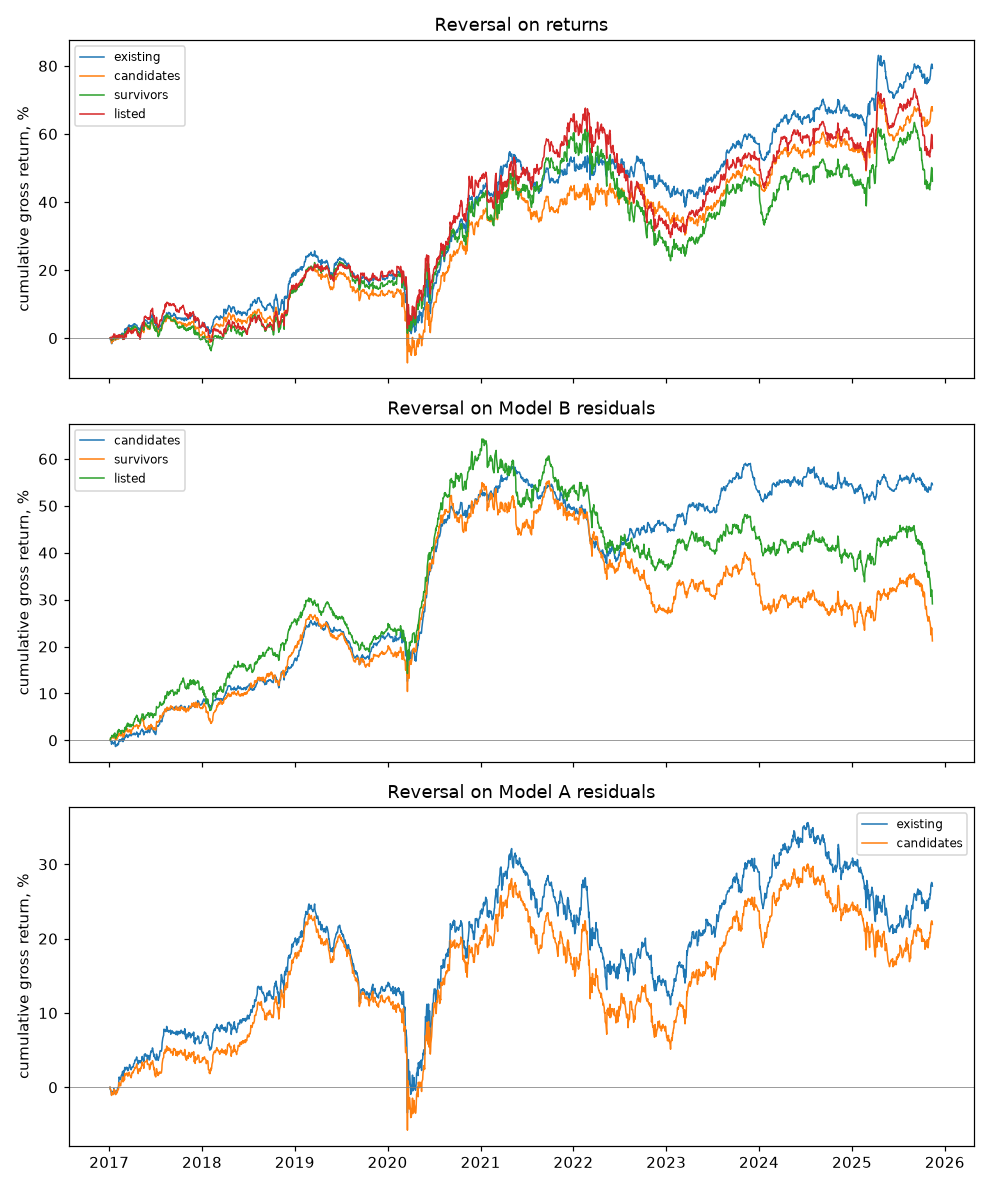
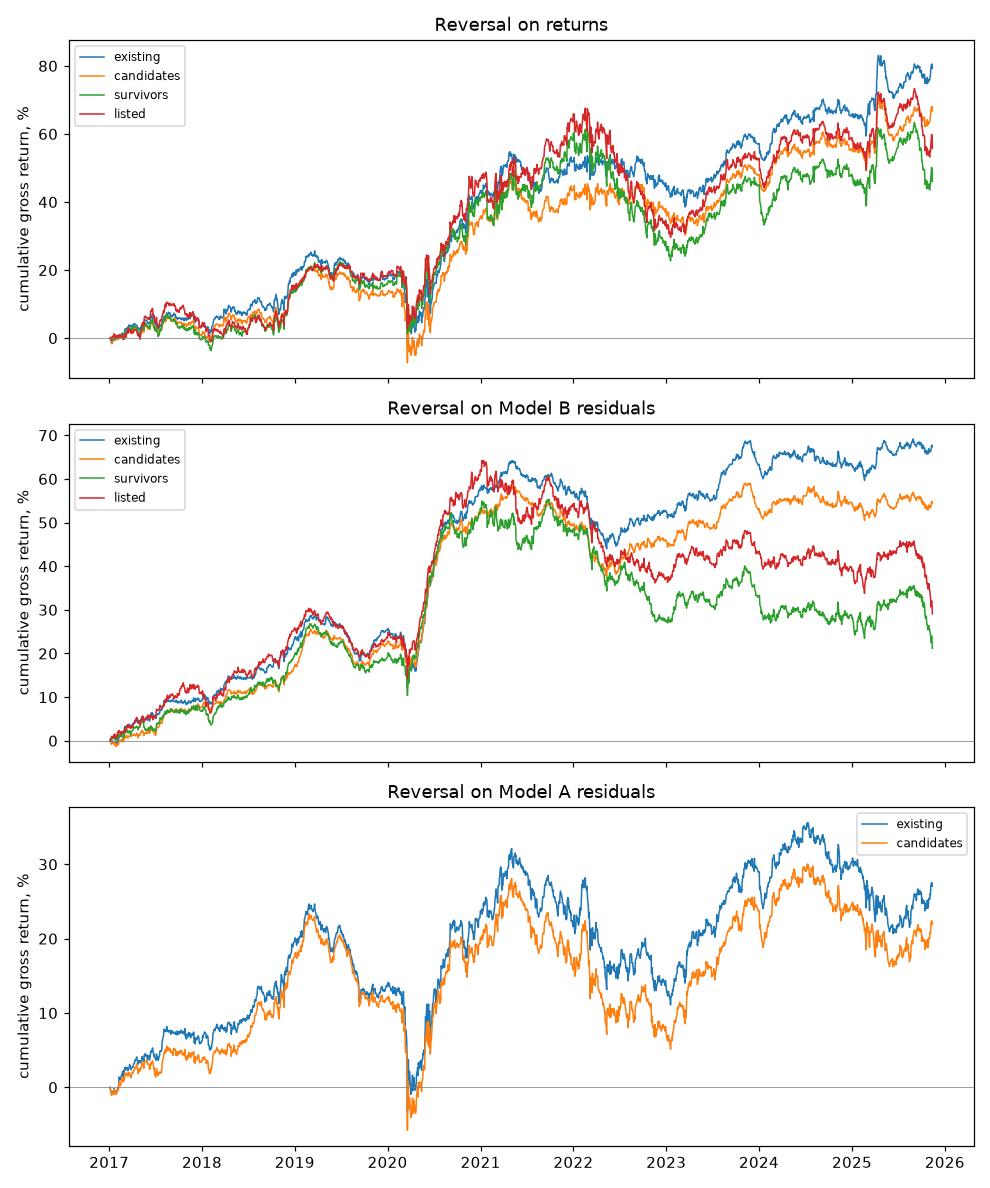
docs(phase-07): log the eighth trial and explain the Model B result
The logged run of statarb.backtest.survivorship at c73fd78, from a
clean tree, with the path the review stated before it ran: reversal
on Model B's residuals on the existing universe, held for one day.

It explains what the review left open. With phase 4's fit and
Alpaca's prices the path's gross Sharpe is above the 0.955 found on
the second source, so the one-day holding period accounts for the gap
with phase 4's two-day figure, and the fit and source together cost
about 0.2. It earns nothing net, like every other path here.

The run appended 40 entries. The 35 earlier ones repeat with
identical metrics.

Results: adds one trial to reports/phase-07/experiments.jsonl, 200 in
the repository. Model B's residuals on the existing universe over
development: gross Sharpe 1.154, gross return 7.62% a year, net
Sharpe -2.160 at 5 bps. Candidates less existing on Model B's
residuals: -0.198 of gross Sharpe. The survivorship report gains the
path's rows; no earlier number moves.

Changed region(s): [[0.4242, 0.3737, 0.9394, 0.5295], [0.1212, 0.4983, 0.4242, 0.6229], [0.0303, 0.3426, 0.1818, 0.5918]]

diff --git a/reports/phase-07/survivorship.md b/reports/phase-07/survivorship.md
@@ -6,13 +6,13 @@ Statistics only: no price, volume or return of any symbol on any date.
 
 - The phase 2 headline's settings: lookback 1, holding 1, decile 0.1, fill open_t1, first signal 2017-01-03, through 2025-11-13, the development end
 - Alpaca snapshot 2026-11-16; MarketParquet snapshot 2026-11-20
-- `existing`: today's S&P 500 on Alpaca's total returns, the logged universe, rerun over development and not logged again
+- `existing`: today's S&P 500 on Alpaca's total returns, the logged universe, rerun over development. Its paths on returns and on Model A's residuals are phase 2's and are not logged again. Its path on Model B's residuals, with phase 4's fit on every candidate, is an eighth trial added after the phase's review and logged.
 - `candidates`: today's S&P 500, ranked and priced on MarketParquet
 - `survivors`: every listed stock symbol without the delisted suffix, built with look-ahead on purpose
 - `listed`: every stock symbol of the day
 - On MarketParquet returns are price returns: no dividends, and a spin-off only where the archive folded it in (decision record 0009). The engine closes a held name after 5 sessions without a bar; `closed` counts those.
 - The raw form is scored from a symbol's first Model B residual on, as phase 2 scores it from its first Model A residual.
-- Trials: the 7 paths on MarketParquet are new; the repository's logs hold 199 with them.
+- Trials: 8 paths here are new, seven on MarketParquet and one on the existing universe; the repository's logs hold 200 with them.
 
 - `candidates`: 447 symbols ever members, 116 rankings
 - `survivors`: 685 symbols ever members, 116 rankings
@@ -26,6 +26,7 @@ Returns are annualised, per dollar of gross exposure.
 |---|---|---|---|---|---|---|---|---|---|---|---|---|
 | existing | Model A | 2229 | 0.339 | 0.312 | 3.06% | 2.81% | 12.09% | -9.03% | 1.706 | 0.65 | 2 | 0 |
 | existing | raw | 2229 | 0.688 | 0.669 | 8.96% | 8.71% | 14.08% | -5.12% | 1.722 | 2.01 | 1 | 0 |
+| existing | Model B | 2228 | 1.154 | 1.116 | 7.62% | 7.37% | 14.23% | -6.61% | 1.711 | 1.71 | 2 | 0 |
 | candidates | raw | 2228 | 0.577 | 0.558 | 7.55% | 7.30% | 12.26% | -4.70% | 1.720 | 1.68 | 2 | 0 |
 | candidates | Model B | 2228 | 0.955 | 0.917 | 6.16% | 5.91% | 12.43% | -6.26% | 1.709 | 1.37 | 2 | 0 |
 | candidates | Model A | 2229 | 0.274 | 0.246 | 2.48% | 2.23% | 10.87% | -8.40% | 1.707 | 0.52 | 1 | 0 |
@@ -42,6 +43,7 @@ Returns are annualised, per dollar of gross exposure.
 |---|---|---|---|---|---|---|---|---|---|---|---|---|
 | existing | Model A | 2229 | 0.339 | -2.084 | 3.06% | -18.69% | 12.09% | -9.03% | 1.706 | 0.65 | 2 | 0 |
 | existing | raw | 2229 | 0.688 | -1.001 | 8.96% | -12.98% | 14.08% | -5.12% | 1.722 | 2.01 | 1 | 0 |
+| existing | Model B | 2228 | 1.154 | -2.160 | 7.62% | -14.19% | 14.23% | -6.61% | 1.711 | 1.71 | 2 | 0 |
 | candidates | raw | 2228 | 0.577 | -1.102 | 7.55% | -14.37% | 12.26% | -4.70% | 1.720 | 1.68 | 2 | 0 |
 | candidates | Model B | 2228 | 0.955 | -2.436 | 6.16% | -15.62% | 12.43% | -6.26% | 1.709 | 1.37 | 2 | 0 |
 | candidates | Model A | 2229 | 0.274 | -2.145 | 2.48% | -19.28% | 10.87% | -8.40% | 1.707 | 0.52 | 1 | 0 |
@@ -54,11 +56,12 @@ Returns are annualised, per dollar of gross exposure.
 
 Differences at 5 bps, the second universe taken from the first.
 
-The source, with its missing dividends (`candidates` less `existing`):
+The source, with its missing dividends (`candidates` less `existing`). For Model B the two also differ in the fit: on every candidate throughout for `existing`, month by month on the members to date for `candidates`.
 
 | form | gross_sharpe | net_sharpe | gross_return | long_leg | short_leg | turnover |
 |---|---|---|---|---|---|---|
 | raw | -0.111 | -0.101 | -1.41% | -1.82% | 0.41% | -0.002 |
+| Model B | -0.198 | -0.276 | -1.46% | -1.80% | 0.34% | -0.002 |
 | Model A | -0.065 | -0.061 | -0.58% | -1.22% | 0.64% | +0.001 |
 
 The change of candidates, from today's S&P 500 to every surviving listed symbol (`survivors` less `candidates`):
@@ -109,30 +112,30 @@ One stated sensitivity (decision record 0009, rule 10): a held name whose bars s
 
 Gross Sharpe ratio by year.
 
-| year | existing, Model A | existing, raw | candidates, raw | candidates, Model B | candidates, Model A | survivors, raw | survivors, Model B | listed, raw | listed, Model B |
-|---|---|---|---|---|---|---|---|---|---|
-| 2017 | 1.421 | 0.576 | 0.169 | 1.893 | 0.783 | -0.023 | 1.464 | 0.477 | 1.971 |
-| 2018 | 2.330 | 1.663 | 1.428 | 2.192 | 2.467 | 1.460 | 2.458 | 1.142 | 2.316 |
-| 2019 | -1.107 | -0.175 | -0.178 | 1.190 | -1.040 | 0.253 | -0.125 | 0.348 | -0.463 |
-| 2020 | 0.638 | 1.125 | 0.987 | 2.854 | 0.515 | 1.079 | 2.944 | 1.225 | 3.211 |
-| 2021 | -0.216 | 0.765 | 0.677 | -0.499 | -0.469 | 0.987 | -0.417 | 1.001 | -0.643 |
-| 2022 | -0.712 | -0.388 | -0.337 | -0.493 | -0.736 | -1.364 | -2.128 | -1.315 | -1.771 |
-| 2023 | 2.070 | 1.103 | 0.956 | 1.213 | 2.181 | 1.380 | 0.739 | 1.500 | 0.763 |
-| 2024 | 0.178 | 0.833 | 0.745 | 0.247 | 0.113 | 0.242 | -0.521 | 0.478 | -0.459 |
-| 2025 | -0.372 | 1.070 | 0.890 | -0.004 | -0.316 | -0.132 | -0.806 | -0.206 | -1.152 |
+| year | existing, Model A | existing, raw | existing, Model B | candidates, raw | candidates, Model B | candidates, Model A | survivors, raw | survivors, Model B | listed, raw | listed, Model B |
+|---|---|---|---|---|---|---|---|---|---|---|
+| 2017 | 1.421 | 0.576 | 2.290 | 0.169 | 1.893 | 0.783 | -0.023 | 1.464 | 0.477 | 1.971 |
+| 2018 | 2.330 | 1.663 | 3.110 | 1.428 | 2.192 | 2.467 | 1.460 | 2.458 | 1.142 | 2.316 |
+| 2019 | -1.107 | -0.175 | 0.374 | -0.178 | 1.190 | -1.040 | 0.253 | -0.125 | 0.348 | -0.463 |
+| 2020 | 0.638 | 1.125 | 2.953 | 0.987 | 2.854 | 0.515 | 1.079 | 2.944 | 1.225 | 3.211 |
+| 2021 | -0.216 | 0.765 | -0.186 | 0.677 | -0.499 | -0.469 | 0.987 | -0.417 | 1.001 | -0.643 |
+| 2022 | -0.712 | -0.388 | -0.574 | -0.337 | -0.493 | -0.736 | -1.364 | -2.128 | -1.315 | -1.771 |
+| 2023 | 2.070 | 1.103 | 1.805 | 0.956 | 1.213 | 2.181 | 1.380 | 0.739 | 1.500 | 0.763 |
+| 2024 | 0.178 | 0.833 | 0.012 | 0.745 | 0.247 | 0.113 | 0.242 | -0.521 | 0.478 | -0.459 |
+| 2025 | -0.372 | 1.070 | 0.730 | 0.890 | -0.004 | -0.316 | -0.132 | -0.806 | -0.206 | -1.152 |
 
 Net return by year at 5 bps, per dollar of gross exposure.
 
-| year | existing, Model A | existing, raw | candidates, raw | candidates, Model B | candidates, Model A | survivors, raw | survivors, Model B | listed, raw | listed, Model B |
-|---|---|---|---|---|---|---|---|---|---|
-| 2017 | -0.153 | -0.183 | -0.206 | -0.137 | -0.180 | -0.216 | -0.144 | -0.173 | -0.099 |
-| 2018 | -0.084 | -0.067 | -0.088 | -0.124 | -0.078 | -0.078 | -0.088 | -0.101 | -0.067 |
-| 2019 | -0.278 | -0.232 | -0.233 | -0.168 | -0.274 | -0.199 | -0.223 | -0.190 | -0.240 |
-| 2020 | -0.117 | 0.039 | 0.010 | 0.080 | -0.136 | 0.040 | 0.124 | 0.074 | 0.169 |
-| 2021 | -0.234 | -0.135 | -0.142 | -0.246 | -0.256 | -0.027 | -0.256 | -0.029 | -0.285 |
-| 2022 | -0.293 | -0.279 | -0.271 | -0.252 | -0.297 | -0.532 | -0.420 | -0.525 | -0.380 |
-| 2023 | -0.068 | -0.104 | -0.120 | -0.146 | -0.059 | -0.052 | -0.157 | -0.037 | -0.155 |
-| 2024 | -0.205 | -0.135 | -0.144 | -0.201 | -0.210 | -0.184 | -0.257 | -0.153 | -0.249 |
-| 2025 | -0.221 | -0.053 | -0.078 | -0.188 | -0.215 | -0.207 | -0.256 | -0.218 | -0.286 |
+| year | existing, Model A | existing, raw | existing, Model B | candidates, raw | candidates, Model B | candidates, Model A | survivors, raw | survivors, Model B | listed, raw | listed, Model B |
+|---|---|---|---|---|---|---|---|---|---|---|
+| 2017 | -0.153 | -0.183 | -0.122 | -0.206 | -0.137 | -0.180 | -0.216 | -0.144 | -0.173 | -0.099 |
+| 2018 | -0.084 | -0.067 | -0.077 | -0.088 | -0.124 | -0.078 | -0.078 | -0.088 | -0.101 | -0.067 |
+| 2019 | -0.278 | -0.232 | -0.200 | -0.233 | -0.168 | -0.274 | -0.199 | -0.223 | -0.190 | -0.240 |
+| 2020 | -0.117 | 0.039 | 0.105 | 0.010 | 0.080 | -0.136 | 0.040 | 0.124 | 0.074 | 0.169 |
+| 2021 | -0.234 | -0.135 | -0.228 | -0.142 | -0.246 | -0.256 | -0.027 | -0.256 | -0.029 | -0.285 |
+| 2022 | -0.293 | -0.279 | -0.259 | -0.271 | -0.252 | -0.297 | -0.532 | -0.420 | -0.525 | -0.380 |
+| 2023 | -0.068 | -0.104 | -0.111 | -0.120 | -0.146 | -0.059 | -0.052 | -0.157 | -0.037 | -0.155 |
+| 2024 | -0.205 | -0.135 | -0.216 | -0.144 | -0.201 | -0.210 | -0.184 | -0.257 | -0.153 | -0.249 |
+| 2025 | -0.221 | -0.053 | -0.147 | -0.078 | -0.188 | -0.215 | -0.207 | -0.256 | -0.218 | -0.286 |
 
 ![cumulative gross return by universe](survivorship.png)

diff --git a/docs/phases/phase-07/review.md b/docs/phases/phase-07/review.md
@@ -67,7 +67,7 @@ How the two sources agree, for the 515 existing tickers:
 
 - **The sign.** Every review since phase 0 said that a universe without dead names flatters a strategy that buys recent losers. Measured, it does not: the universe with the dead names does slightly better. The argument held for the long leg, where the failures are bought, and missed the short leg, where a name that later delisted and was rising into an acquisition or a squeeze was just as often sold. What the earlier results carry is a different bias, in the next point.
 - **Today's S&P 500 is the stronger filter.** A list of today's index members is not only a list of survivors: it is a list of companies that grew large enough to be in the index. Reversal on those names, including in the years before they joined, does better than on every surviving listed stock by several times the survivorship effect. The phase 0 review named survivorship; the bias that matters is the choice of today's index as the candidate list, and "survivors less listed" does not measure it.
-- **Model B on today's S&P 500 at 0.955.** Its gross return, 6.16% a year, is like the raw form's 7.55%, at half the volatility, 6.45% against 13.10%. Phase 4 found Model B's residuals gave a steadier book with less gross return than Model A's on the existing universe, where its decile sort's gross Sharpe was 0.66 against 0.71. That path held for two days, was costed per dollar of capital and used a fit on all 500 candidates; this one holds for one day and is fitted month by month on the members to date. No logged path is like for like, and running one would be an eighth trial, so the difference is unexplained. It is one of seven trials and is read as that.
+- **Model B on today's S&P 500 at 0.955.** Its gross return, 6.16% a year, is like the raw form's 7.55%, at half the volatility, 6.45% against 13.10%. Phase 4 found Model B's residuals gave a steadier book with less gross return than Model A's on the existing universe, where its decile sort's gross Sharpe was 0.66 against 0.71. That path held for two days, was costed per dollar of capital and used a fit on all 500 candidates; this one holds for one day and is fitted month by month on the members to date. No logged path was like for like when this review was written, so the difference was left unexplained; an eighth trial, [added after the review](#added-after-the-review-an-eighth-trial), explains it.
 - **A symbol is not a company through time, in either source.** Alpaca gives a renamed company's history under today's ticker. This source carries a plain rename under the new symbol too, but holds some companies twice, the earlier years also under the old symbol with the suffix, as a series that tracks the other closely without equalling it. At a month end in 2016 about 7 pairs of the listed universe's 300 members correlate above 0.98, and about 1 from 2023; some are share classes. A company held twice is one delisting and one survivor in this measurement.
 - **Alpaca holds the dead names.** A probe of 60 suffixed symbols found Alpaca's bars for all of them and corporate actions for about half. The premise of the purchase was that no free source holds dead names' prices. What this source adds is the list of who traded on each day, which Alpaca does not give; the prices could have come from either. The probe is not a snapshot and supports no result.
 - **The archive moves during the day, and a symbol's marker can be look-ahead twice.** Files for October and November were modified at three times on one day, so a snapshot is not taken at one instant; the manifest now records what the host says of each file. And a fifth letter Q, the exchange's bankruptcy marker, is on some symbols' whole history, as the suffix is. No rule reads either.
@@ -80,7 +80,13 @@ Stated on 2026-11-22, before the path ran. The brief fixed seven trials. This ad
 - **The path:** the phase 2 headline's settings (lookback 1, holding 1, decile 0.1, fill at the open of *t+1*) on the existing universe and Alpaca's total returns, over development, with Model B's residuals in place of Model A's. The residuals are phase 4's stored table, fitted on every candidate throughout, put into the tables as phase 4 puts them. Nothing else differs from the logged phase 2 headline.
 - **What it separates.** The 0.955 differs from phase 4's Model B decile sort, 0.66, in three ways at once: a one-day holding period against two, a fit month by month on the members to date against one on every candidate, and this source against Alpaca. This path has the one-day holding period with phase 4's fit and Alpaca's prices. If it is near 0.955, the holding period explains the gap. If it is near phase 4's figure or Model A's, the fit and the source do.
 - **How it counts.** It is a new position path, so a trial: logged in this phase's log with Alpaca as its source and no universe key, since its universe is phase 0's. Nothing is chosen from it, and no setting is changed after it is seen.
-- **The result** is added below once the logged run exists.
+**The result,** from the logged run at `c73fd78` on 2026-11-22, a clean tree, quoted from the [survivorship report](../../../reports/phase-07/survivorship.md):
+
+- **The holding period explains it.** On the existing universe, reversal on Model B's residuals held for one day has a gross Sharpe ratio of 1.154 over development: a gross return of 7.62% a year at a volatility of 6.61%. That is above the 0.955 on this source, not below it. So Model B at a one-day holding period is strong on today's S&P 500 whatever the fit and the source, and phase 4's 0.66 was the same residuals held for two days.
+- **The fit and the source cost about 0.2.** `candidates` less `existing` on Model B's residuals is −0.198 of gross Sharpe and −1.46% a year of gross return, beside −0.111 on returns and −0.065 on Model A's residuals. The two Model B paths differ in the source and in the fit, and this does not separate those.
+- **It is the highest gross Sharpe of the ten paths and earns nothing net.** At 5 bps one way its net Sharpe is −2.160: it turns over 1.711 of gross a day, like every other path here, and its break-even cost is 1.71 bps.
+- **By year it is the first four years.** Its gross Sharpe is 2.290, 3.110, 0.374 and 2.953 in 2017 to 2020, and between −0.574 and 1.805 in each year after, negative in 2021 and 2022.
+- **What it changes.** Nothing about survivorship, and no verdict: no path keeps a net edge. It replaces "unexplained" above with a finding about Model B: its residuals reverse more cleanly than Model A's over one day and lose that by the second. The rerun reproduced the 35 earlier entries' metrics exactly, and the repository's logs now hold 200 trials.
 
 ## Review questions
 
